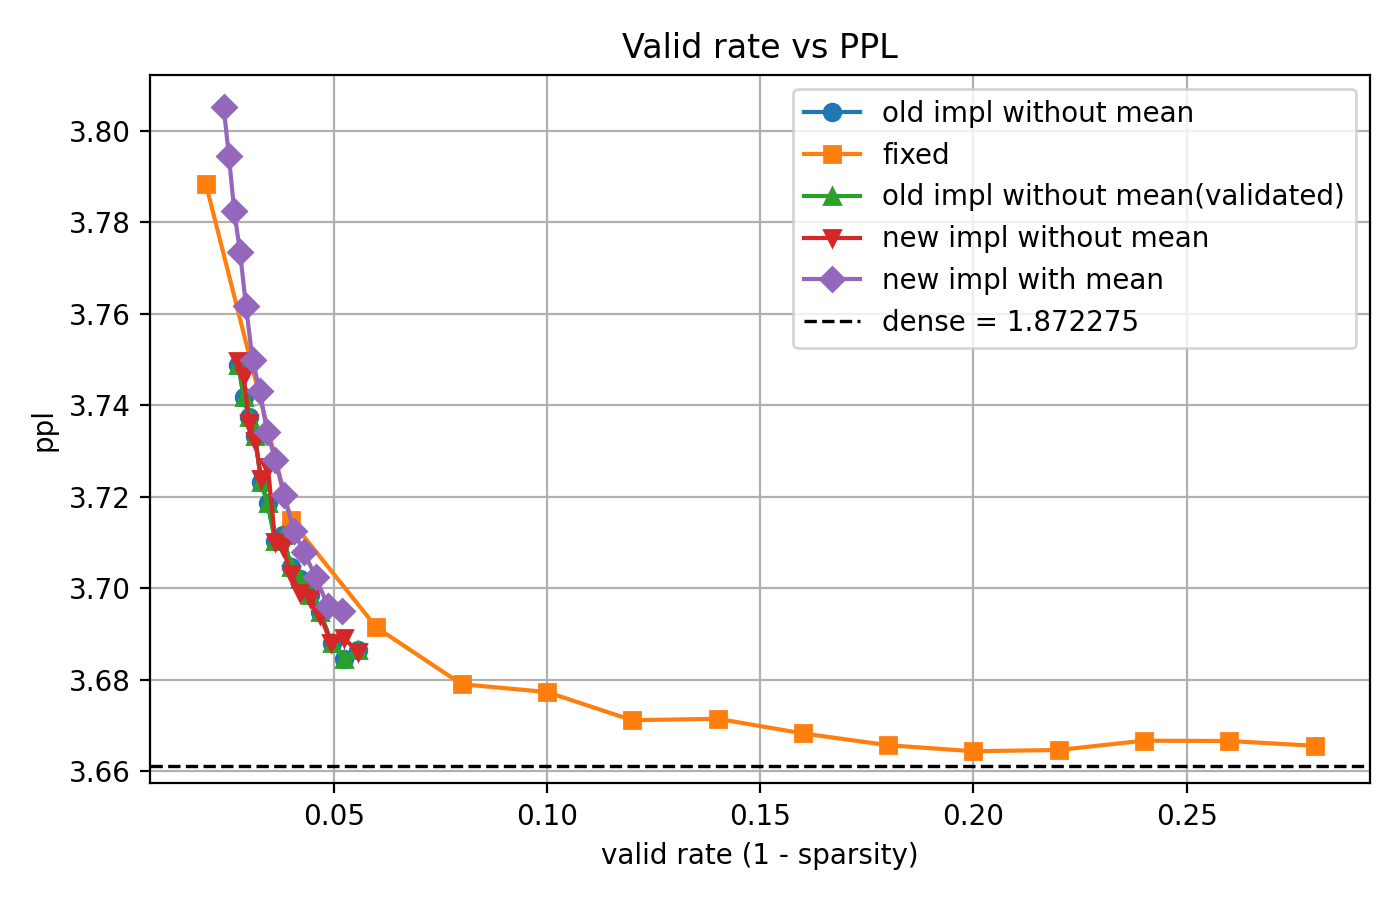
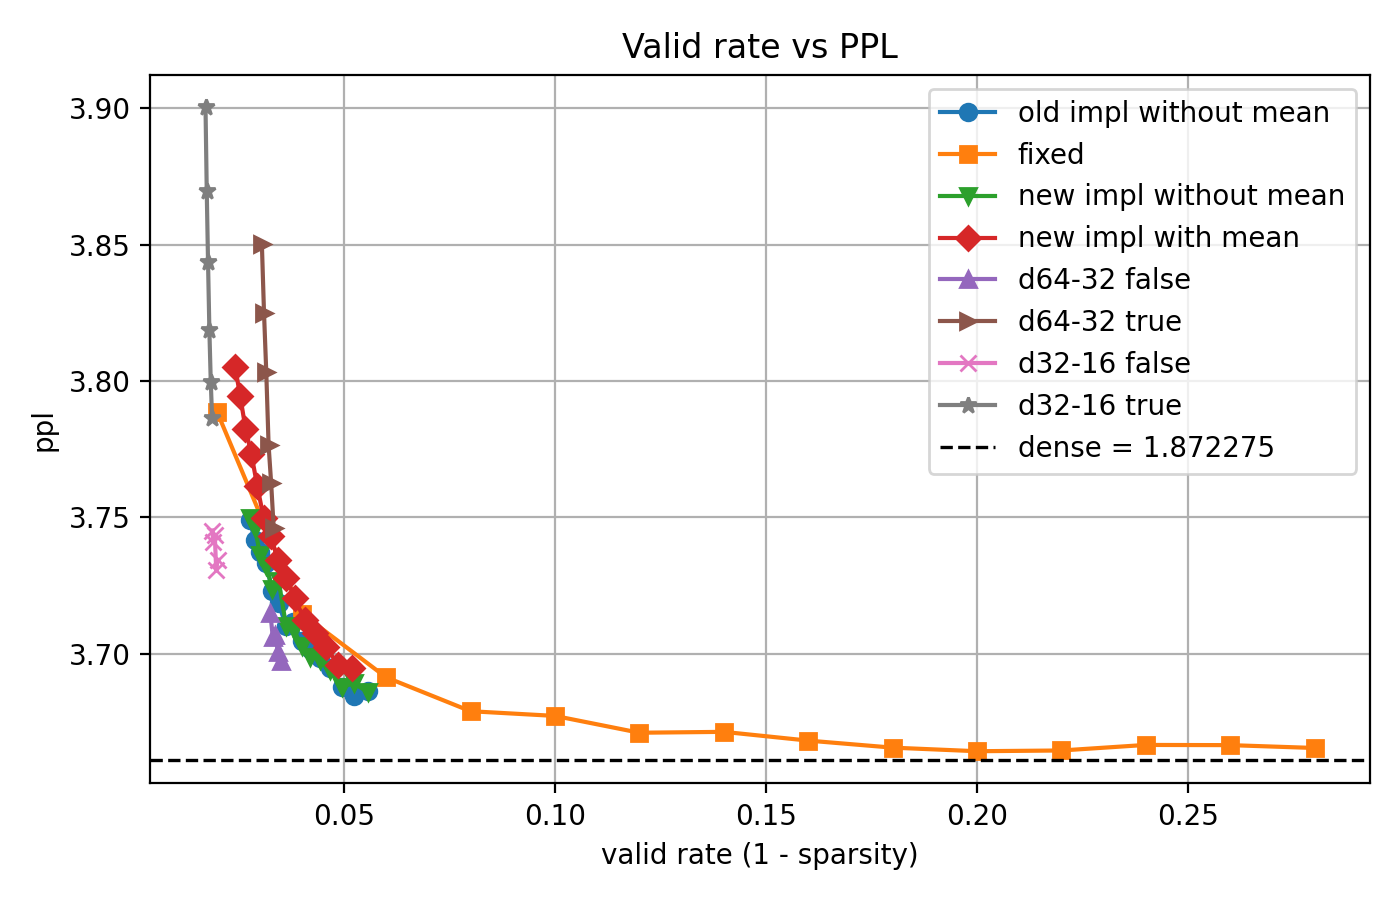
update

diff --git a/scripts/results.py b/scripts/results.py
@@ -74,6 +74,38 @@ dynamic_old_sparsity = [
     (0.9711042631758362, 1.90375),
     (0.9723656286603145, 1.90646484375),
 ]
+
+d_32_16_false = [
+    (0.9799434858220435, 1.900927734375),
+    (0.980268770173462, 1.899521484375),
+    (0.9805948783247688, 1.90435546875),
+    (0.980912188571484, 1.903408203125),
+    (0.9812287932592685, 1.905048828125),
+]
+d_32_16_true = [
+    (0.9812336057480613, 1.920859375),
+    (0.9815554807503525, 1.92591796875),
+    (0.9818824444097626, 1.933076171875),
+    (0.9822010405780316, 1.942470703125),
+    (0.9825060502875044, 1.9521875),
+    (0.9827990315366782, 1.96365234375),
+]
+d_64_32_false = [
+    (0.9649803725165896, 1.886513671875),
+    (0.9656296831192748, 1.887744140625),
+    (0.9662583301940972, 1.890185546875),
+    (0.9668523222353828, 1.8898828125),
+    (0.9674210653317473, 1.893291015625),
+]
+d_64_32_true = [
+    (0.9666411091087558, 1.905390625),
+    (0.9672480683780795, 1.9117578125),
+    (0.9678470901605744, 1.91701171875),
+    (0.9683987057064956, 1.927197265625),
+    (0.9689380119187015, 1.935498046875),
+    (0.9694428668482246, 1.94494140625),
+]
+
 dense = 1.872275390625
 
 
@@ -94,7 +126,10 @@ fixed_results = [
     (0.72, 1.874013671875),
 ]
 
-
+def get_sparsity_and_ppl(results):
+    sparsity = [1 - valid for valid, _ in results]
+    ppl = [2**bpc for _, bpc in results]
+    return sparsity, ppl
 # %%
 def plot_valid_vs_ppl():
     # dynamic: valid rate = n_selected / total_tokens
@@ -120,6 +155,10 @@ def plot_valid_vs_ppl():
 
     # sparq_valid = [1 - valid for valid, _ in sparq]
     # sparq_ppl = [ppl for _, ppl in sparq]
+    d_64_32_false_sparsity_valid, d_64_32_false_sparsity_ppl = get_sparsity_and_ppl(d_64_32_false)
+    d_64_32_true_sparsity_valid, d_64_32_true_sparsity_ppl = get_sparsity_and_ppl(d_64_32_true)
+    d_32_16_false_sparsity_valid, d_32_16_false_sparsity_ppl = get_sparsity_and_ppl(d_32_16_false)
+    d_32_16_true_sparsity_valid, d_32_16_true_sparsity_ppl = get_sparsity_and_ppl(d_32_16_true)
 
     plt.figure(figsize=(7, 4.5))
 
@@ -130,12 +169,7 @@ def plot_valid_vs_ppl():
         label="old impl without mean",
     )
     plt.plot(fixed_valid, fixed_ppl, marker="s", label="fixed")
-    plt.plot(
-        dynamic_old_only_sparsity_valid,
-        dynamic_old_only_sparsity_ppl,
-        marker="^",
-        label="old impl without mean(validated)",
-    )
+
     plt.plot(
         dynamic_new_only_sparsity_valid,
         dynamic_new_only_sparsity_ppl,
@@ -147,6 +181,31 @@ def plot_valid_vs_ppl():
         dynamic_new_withmean_ppl,
         marker="D",
         label="new impl with mean",
+    )
+    
+    plt.plot(
+        d_64_32_false_sparsity_valid,
+        d_64_32_false_sparsity_ppl,
+        marker="^",
+        label="d64-32 false",
+    )
+    plt.plot(
+        d_64_32_true_sparsity_valid,
+        d_64_32_true_sparsity_ppl,
+        marker=">",
+        label="d64-32 true",
+    )
+    plt.plot(
+        d_32_16_false_sparsity_valid,
+        d_32_16_false_sparsity_ppl,
+        marker="x",
+        label="d32-16 false",
+    )
+    plt.plot(
+        d_32_16_true_sparsity_valid,
+        d_32_16_true_sparsity_ppl,
+        marker="*",
+        label="d32-16 true",
     )
     # plt.plot(sparq_valid, sparq_ppl, marker="^", label="sparq")
     dense_ppl = 2**dense

diff --git a/scripts/dynamic.py b/scripts/dynamic.py
@@ -26,7 +26,7 @@ print(
 )
 
 global_results = []
-for sparsity in [i / 1000 for i in range(700, 500, -20)]:
+for sparsity in [i / 1000 for i in range(995, 900, -5)]:
     print("Running dynamic with sparsity:", sparsity)
     global_stats = {"n_selected": 0, "total_tokens": 0}
     out = xp.run_one(
